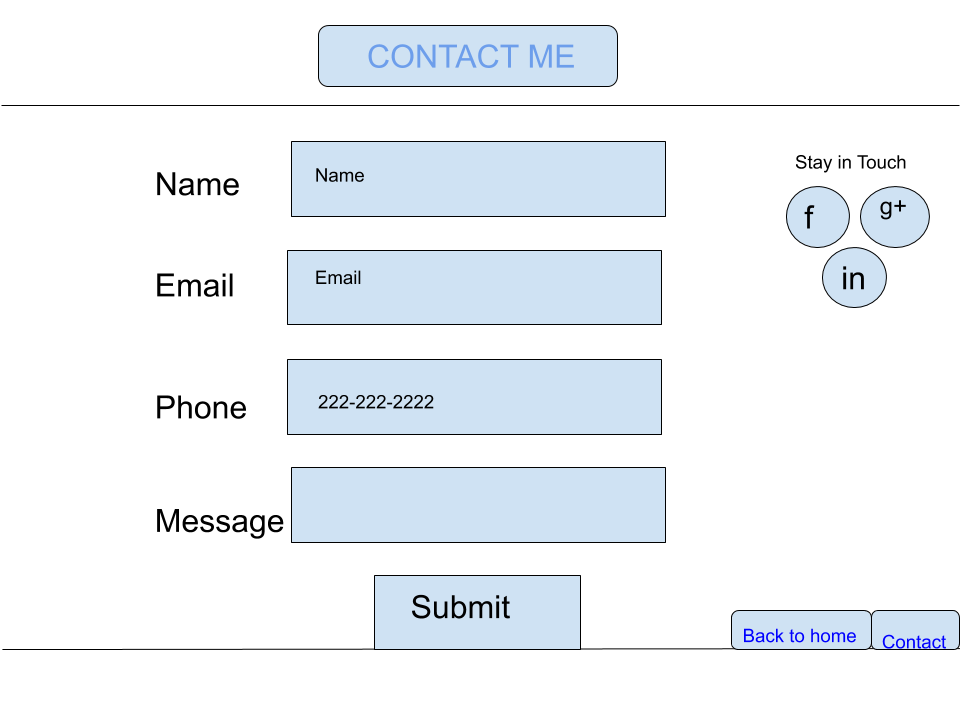
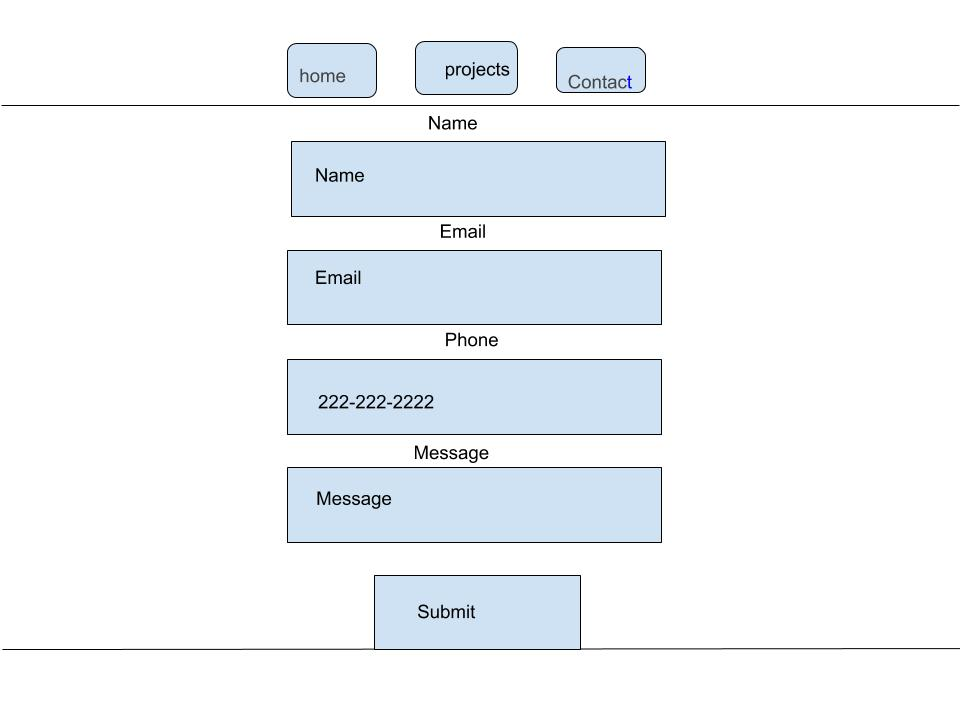
update both portfolio_docs and portfolio that mead project 2 and project 3

diff --git a/projects/portfolio/styles/styles.css b/projects/portfolio/styles/styles.css
@@ -1,6 +1,6 @@
  
 body {
-    background-color: #E28b55;  
+    background-color: #ebd2c2;  
 }
 
  
@@ -16,15 +16,13 @@ h2 {
     margin-right: auto;
     text-align: center;
     font-family: "Arial";
+    border-radius: 10px;
 }
-
- 
 #header {
     background-color: #dab278;
+    border-radius: 10px;
 }
 #header h1 {
-    margin-top: 0;
-    margin-bottom: 0;
     padding-top: 40px;
     padding-bottom: 40px;
     color: #2A403F;
@@ -33,8 +31,6 @@ h2 {
 #header ul {
     color: white;
     text-align: center;
-    padding-left: 0;
-    margin-bottom: 0;
     padding-bottom: 20px;
     
 }
@@ -53,71 +49,56 @@ h2 {
     border-radius: 15px;
 }
 
- 
-
-
-#header ul li a:link {
+ #header ul li a:link {
     color: white;
     text-decoration: none;
 }
-
 #header ul li a:visited {
     color: darkblue;
 }
-
-
-#ma{    
+#ma img{    
     margin-right: 20px; 
+    border-radius: 10px;
+    border-width: 5px;
+    border-color: #2A403F;
 }
-
 #first-title {
-    margin-top: 0;
     padding-top: 20px;
-    margin-right: 300px;
+   
 }
 
 #main p {
     text-align: left;
-    
     margin-right: 30px;
     margin-left: 30px;
     line-height: 22px;
-    color: #ffffff;
+    color: #0a0505;
+    font-size: 16px;
+     
     
 }
 
 #main img {
     border-style: solid;
-    border-width: 10px;
+    border-radius: 10px;
     
     
 }
 #main{
-    margin-left: 0px;
     font-size: 20px;
     color: #2A403F;
     border-color: #dae79e;
-    border-radius: 25px;
+    border-radius: 5px;
  
 }
-#contact-form{
-    margin-left: 50px;
-    margin-right: 150px;
-  
-}
-body#contact-page form#contact-form {
-    text-align: left;
-   
-     
-     
-}
+
 
 body#contact-page form#contact-form input {
     margin-bottom: 20px;
     height: 50px;
     width: 75%;
-    font-size: 30px;
-    border-radius: 10px;
+    font-size: 20px;
+    border-radius: 4px;
     border-style: solid;
     border-width: 2px;
     border-color: darkblue;
@@ -126,48 +107,22 @@ body#contact-page form#contact-form input {
 
 
 body#contact-page form#contact-form #message {
-    height: 100px;
-
+    height: 160px;
 }
    
 body#contact-page form#contact-form #submit {
     font-size: 20px;
     width: 100px;
     text-align: center;
-    margin-left: 90px;
-    
 }
-#max ul {
-    color: white;
-    text-align: center;
-    padding-left: 0;
-    margin-bottom: 0;
-    padding-bottom: 20px;
-    color: #0000ff;
-    
-}
-
-#max ul li {
-    background-color: #ffffff;
-    display: inline-block;
-    margin-left: 25px;
-    margin-right: 25px;
-    height: 40px;
-    width: 100px;
-    text-align: center;
-    line-height: 50px;
-    padding-right: 5px;
-    padding-left: 5px;
-    border-radius: 15px;
-   
-}
+ 
 #footer {
     background-color: #dab278;
-    height: 80px;
+    height: 100px;
     line-height: 50px;
-    padding-top: 20px;
-    color: #2A403F;
-    padding-top: 30PX;
-
-}
+    width: 600px;
+   }
+   p{
+       padding: 30px;
+   }
  

diff --git a/projects/portfolio/project.html b/projects/portfolio/project.html
@@ -20,28 +20,24 @@
         <div id="header">
         
             <h1>MY PROJECTS!</h1>
+            <ul>
+                <li><a href="index.html">HOME</a></li>
+                
+                <li><a href="contact.html">PROJECTS</a></li>
+                <li><a href="contact.html">CONTACT</a></li>
+            </ul>
         </div>
 
         <div id="ma">
             <h2>My Frist Project!</h2>
-            <img src="images/wireframe_project1.jpg" alt="Girl dancing in the streets."  width= "600" />
+            <img src="images/wireframe_project1.jpg" alt="sample project1 will be changed by real project soon."  width= "600" />
             <h2>My Second Project!</h2>
-            <img src="images/wireframe_project2.jpg" alt="Fauna in a tundra with clear blue skies." width= "600" />
-           <p><a href="https://www.pexels.com/search/cooking/"> Credit: Bruno Joseph, Ingo Joseph
-            and Daniel Frese. </a></p>
-        </div>
-        <div id="max" >
-            <ul>
-                <li><a href="index.html">Home</a></li>
-                
-                <li><a href="contact.html">Contact Us</a></li>
-            </ul>
-        </div>
+            <img src="images/wireframe_project2.jpg" alt="sample project2 will be changed by real project soon." width= "600" />
+           <p><a href="https://www.pexels.com/search/cooking/"> Credit: Bruno Joseph, Ingo Joseph and Daniel Frese. </a></p>
+
         <div id="footer">
             <p>Copyright 2020 &copy; Tekle Gebrezgabhier</p>
         </div>
-
-    </div>
 
 </body>
 

diff --git a/projects/portfolio/index.html b/projects/portfolio/index.html
@@ -20,11 +20,11 @@
 
         <div id="header">
             
-            <h1>Tekle's Web Portflio!</h1>
+            <h1>Tekle's Web Portfolio!</h1>
 
             <ul>
-                <li><a href="base.html">Home</a></li>
-                <li><a href="project.html">MY PROJECTS</a></li>
+                <li><a href="base.html">HOME</a></li>
+                <li><a href="project.html">PROJECTS</a></li>
                 <li><a href="contact.html">CONTACT</a></li>
             </ul>
         </div>
@@ -32,7 +32,7 @@
         <div id="main">
             <div id="ma">
                 <p>Tekle Gebrezgabhier,</p>
-                <img src="images/wireframe_about_3me.jpg" alt=" black and white." width="580"  />
+                <img src="images/wireframe_about_3me.jpg" alt=" black and white." width="590"  />
             </div>
 
             <p>My name is Tekle Gebrezgabhier.I have bachelor degree in civil engineering from Eritrea Institute of
@@ -44,7 +44,7 @@
             <P>Currently, I am joining to the Media Mission Techies as a web designer. I am not experienced but familiar
                 with Java, Javascript HTML, CSS3, Bootstrap and MySQL system control git. My dream is I will be offering
                 full services to my client as a full stack development which includes front-end and back-end of website
-                development. <a href="resume.pdf">click</a> to see my resume.</p>
+                development. <a href="resume.pdf">resume</a> .</p>
         </div>
         
         <div id="footer">

diff --git a/projects/portfolio/contact.html b/projects/portfolio/contact.html
@@ -21,7 +21,11 @@
         <div id="header">
             <h1>CONTACT ME</h1>
 
-
+            <ul>
+                <li><a href="index.html">HOME</a></li>
+                <li><a href="project.html">PROJECTS</a></li>
+                <li><a href="contact.html">CONTACT</a></li>
+            </ul>
         </div>
 
         <div id="main">
@@ -48,12 +52,13 @@
 
              
         </div>
-        <div id="max">
+      <!-- <div id="max">
             <ul>
                 <li><a href="index.html">Back to home</a></li>
                 <li><a href="project.html">project</a></li>
             </ul>
         </div>
+    -->
         <div id="footer">
             <p>Copyright 2020 &copy; Tekle Gebrezgabhier</p>
         </div>
